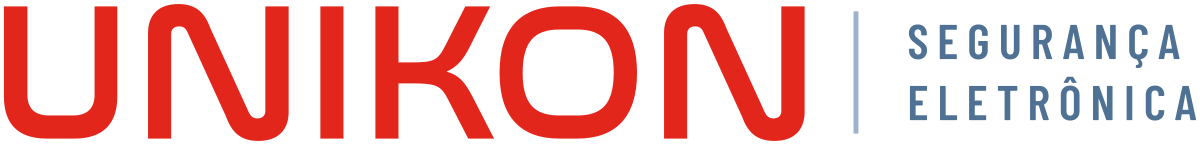
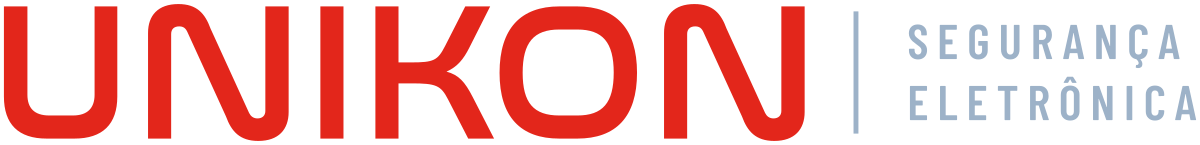
"Segurança eletrônica" na cor da barrinha nas versões vermelhas
Nas versões da marca com UNIKON vermelho (fundo claro), o subtítulo passa a
usar #9DB2C8, a mesma cor da linha divisória.

Changed region(s): [[0.74, 0.5241, 1.0, 0.8276], [0.74, 0.1655, 0.9867, 0.469]]

diff --git a/src/components/ui.tsx b/src/components/ui.tsx
@@ -22,7 +22,7 @@ export function Logo({ light = false, className = '' }: { light?: boolean; class
       ) : (
         <span className="font-display text-[28px] font-extrabold leading-none tracking-[0.06em] text-brand-500">UNIKON</span>
       )}
-      <span className={`hidden border-l pl-2.5 font-display text-[10px] font-semibold uppercase leading-tight tracking-[0.18em] sm:block ${light ? 'border-white/20 text-steel-100' : 'border-steel-300 text-steel-500'}`}>
+      <span className={`hidden border-l pl-2.5 font-display text-[10px] font-semibold uppercase leading-tight tracking-[0.18em] sm:block ${light ? 'border-white/20 text-steel-100' : 'border-steel-300 text-steel-300'}`}>
         Segurança
         <br />
         eletrônica
